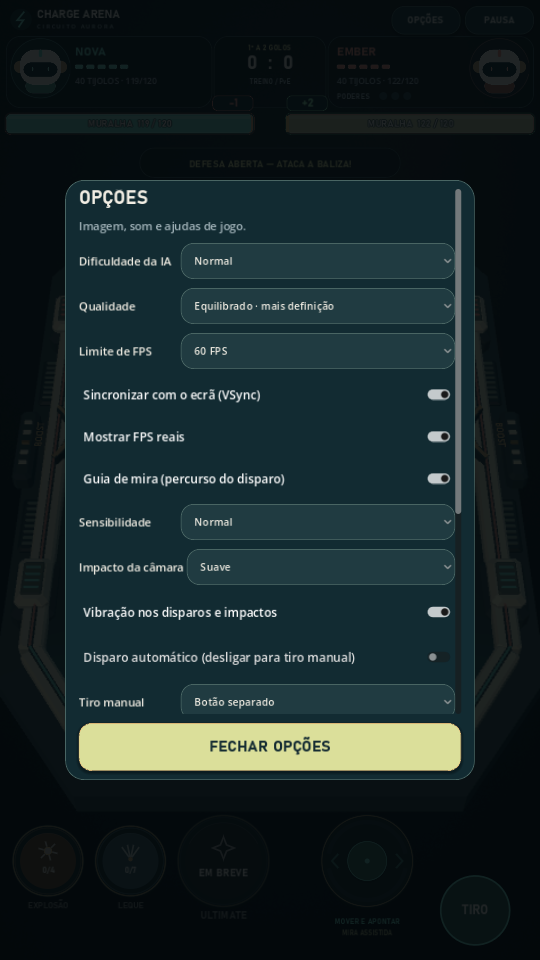
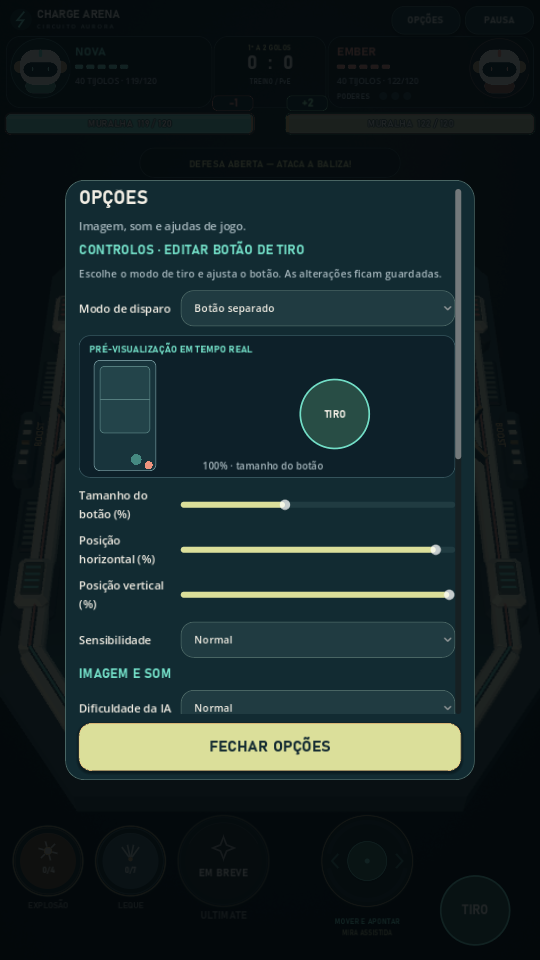
fix: restaurar modos de tiro e preview, reutilizar efeitos de habilidades

Changed region(s): [[0.1481, 0.25, 0.8593, 0.75]]

diff --git a/docs/CONTROLOS-FX-2.9.5.md b/docs/CONTROLOS-FX-2.9.5.md
@@ -1,0 +1,21 @@
+# 2.9.5 — Controlos e efeitos
+
+## Controlos restaurados
+
+Opções abre no início, com uma escolha única: Automático, Botão separado, No próprio joystick. A escolha atualiza as preferências antigas sem migração destrutiva. Tamanho e posição do botão separado continuam configuráveis, com pré-visualização em tempo real (esquema do ecrã e vista ampliada do botão), seguidos da sensibilidade. No joystick, manter o dedo dispara e largar interrompe; tocar nos poderes não dispara.
+
+## Picos de efeitos
+
+A criação de CPUParticles3D não respeitava o limite geral em todos os chamadores. Sob uma rajada, continuava a alocar nós e recursos além do orçamento. As luzes temporárias também eram criadas/libertadas constantemente. Agora há 48 emissores e oito luzes reutilizáveis preparados durante a construção da arena, com limites simultâneos por perfil (16/32/48 emissores e 2/4/8 luzes). Não se altera a qualidade selecionada, resolução ou antialiasing.
+
+Efeitos expirados voltam à reserva; remoção por índice reverso evita pesquisas/reorganizações repetidas. Tarefas visuais atrasadas executam até quatro por frame, em vez de todas após um frame lento. Isto só afeta a apresentação: poderes, dano, duração e física mantêm-se iguais.
+
+Teste sintético de 300 pedidos de emissão/luz, headless no PC: versão anterior 356 nós novos e 12 099 µs; nova zero nós novos e 3 475 µs, 56 efeitos ativos. É uma medição pontual de criação no CPU, não FPS Android nem garantia de ausência de travamentos em todos os dispositivos.
+
+## Verificação
+
+- Testes dos três modos: toque, libertação, botão independente e persistência.
+- Saturação e devolução dos recursos, execução completa da fila e preservação da qualidade.
+- Regressões touch/feedback e paridade de 1 200 ticks com 2.9.4. O teste antigo usava física anterior às correções das paredes; a referência passa para 3bd4bb1.
+- Execução gráfica de raio solar, meteoros, trovão, florescimento e pilhagem; captura das opções em retrato.
+- APKs código 58, pacotes e ícones preservados: LABS Sentinela; Alfa Arconte. Sem ensaio físico em Android nesta sessão.

diff --git a/README.md b/README.md
@@ -1,3 +1,5 @@
+> **2.9.5 — Controlos e efeitos:** três modos de disparo no início das Opções, tamanho/posição do botão e reutilização de partículas/luzes para reduzir picos nas habilidades. [Validação](docs/CONTROLOS-FX-2.9.5.md).
+
 > **2.9.4 — Muralhas:** colisões sólidas, Corsário corrigido, vida dos tijolos com barras grandes animadas e músicas exclusivas dos bots. [Alterações](docs/MURALHAS-2.9.4.md).
 
 > **2.9.3 — IA:** Normal/Difícil mais ativos, poderes sem esperar pelo tiro básico e compatibilidade dos saves da loja. [Alterações e testes](docs/IA-2.9.3.md).
